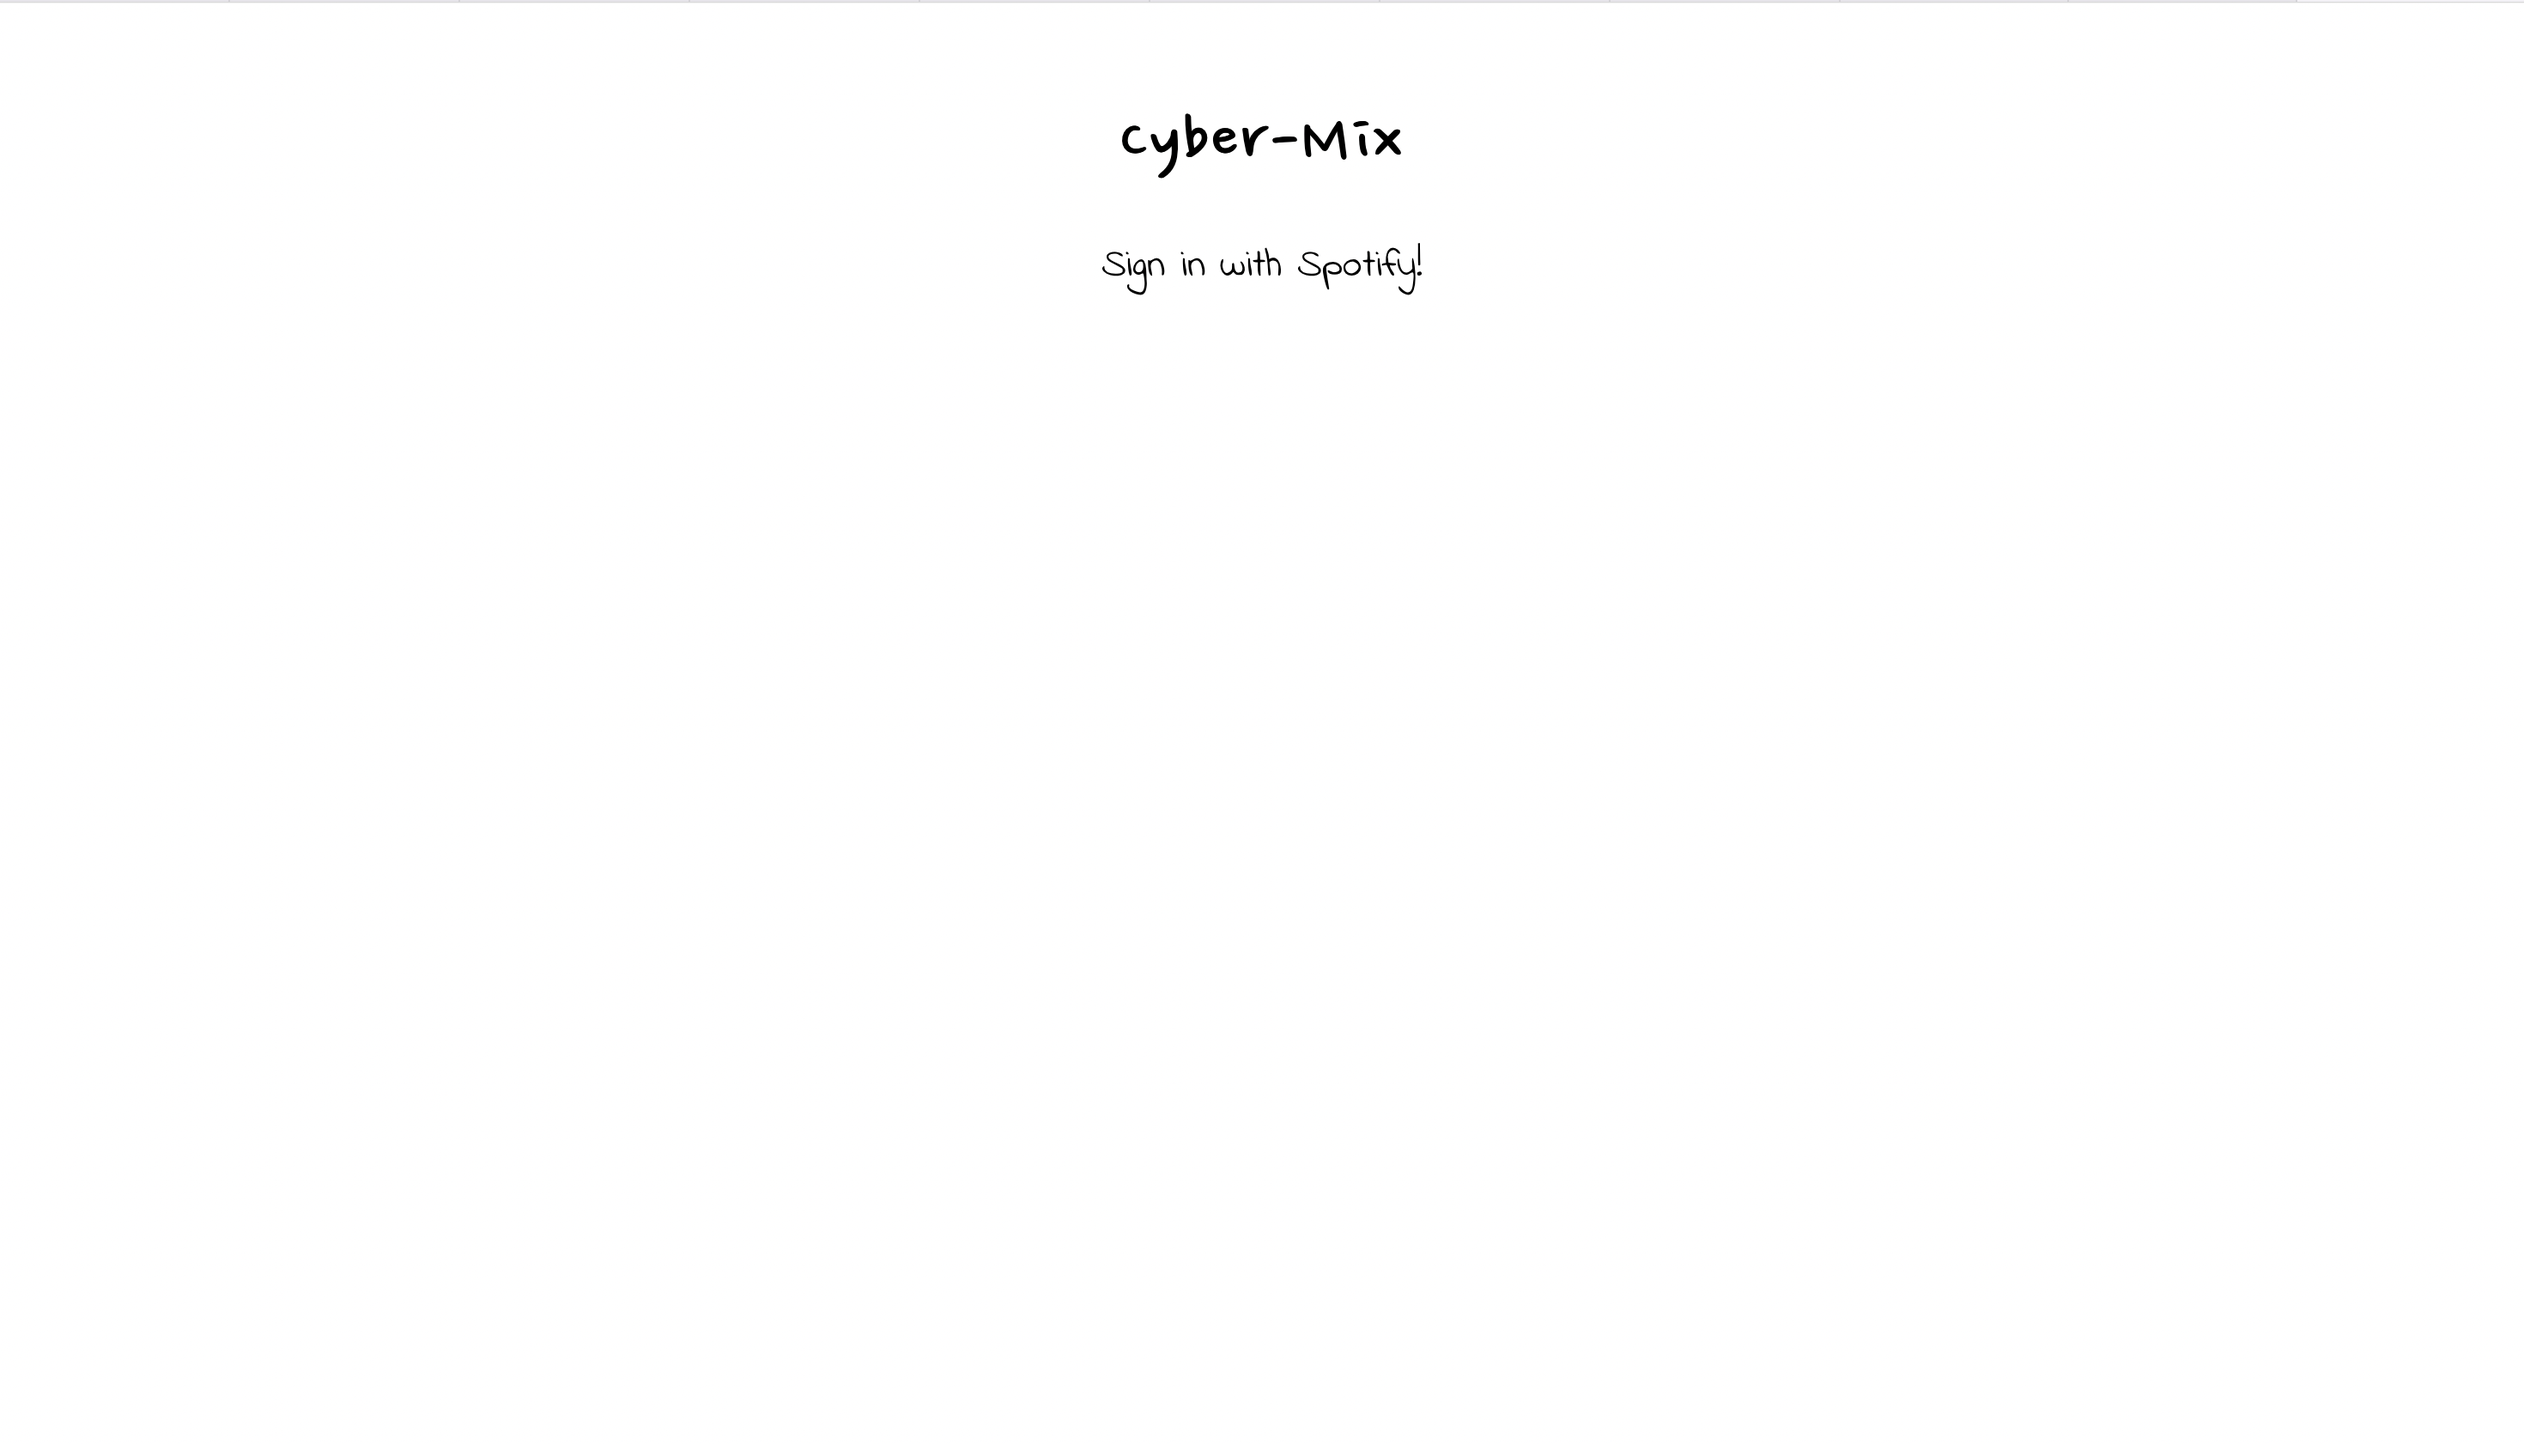
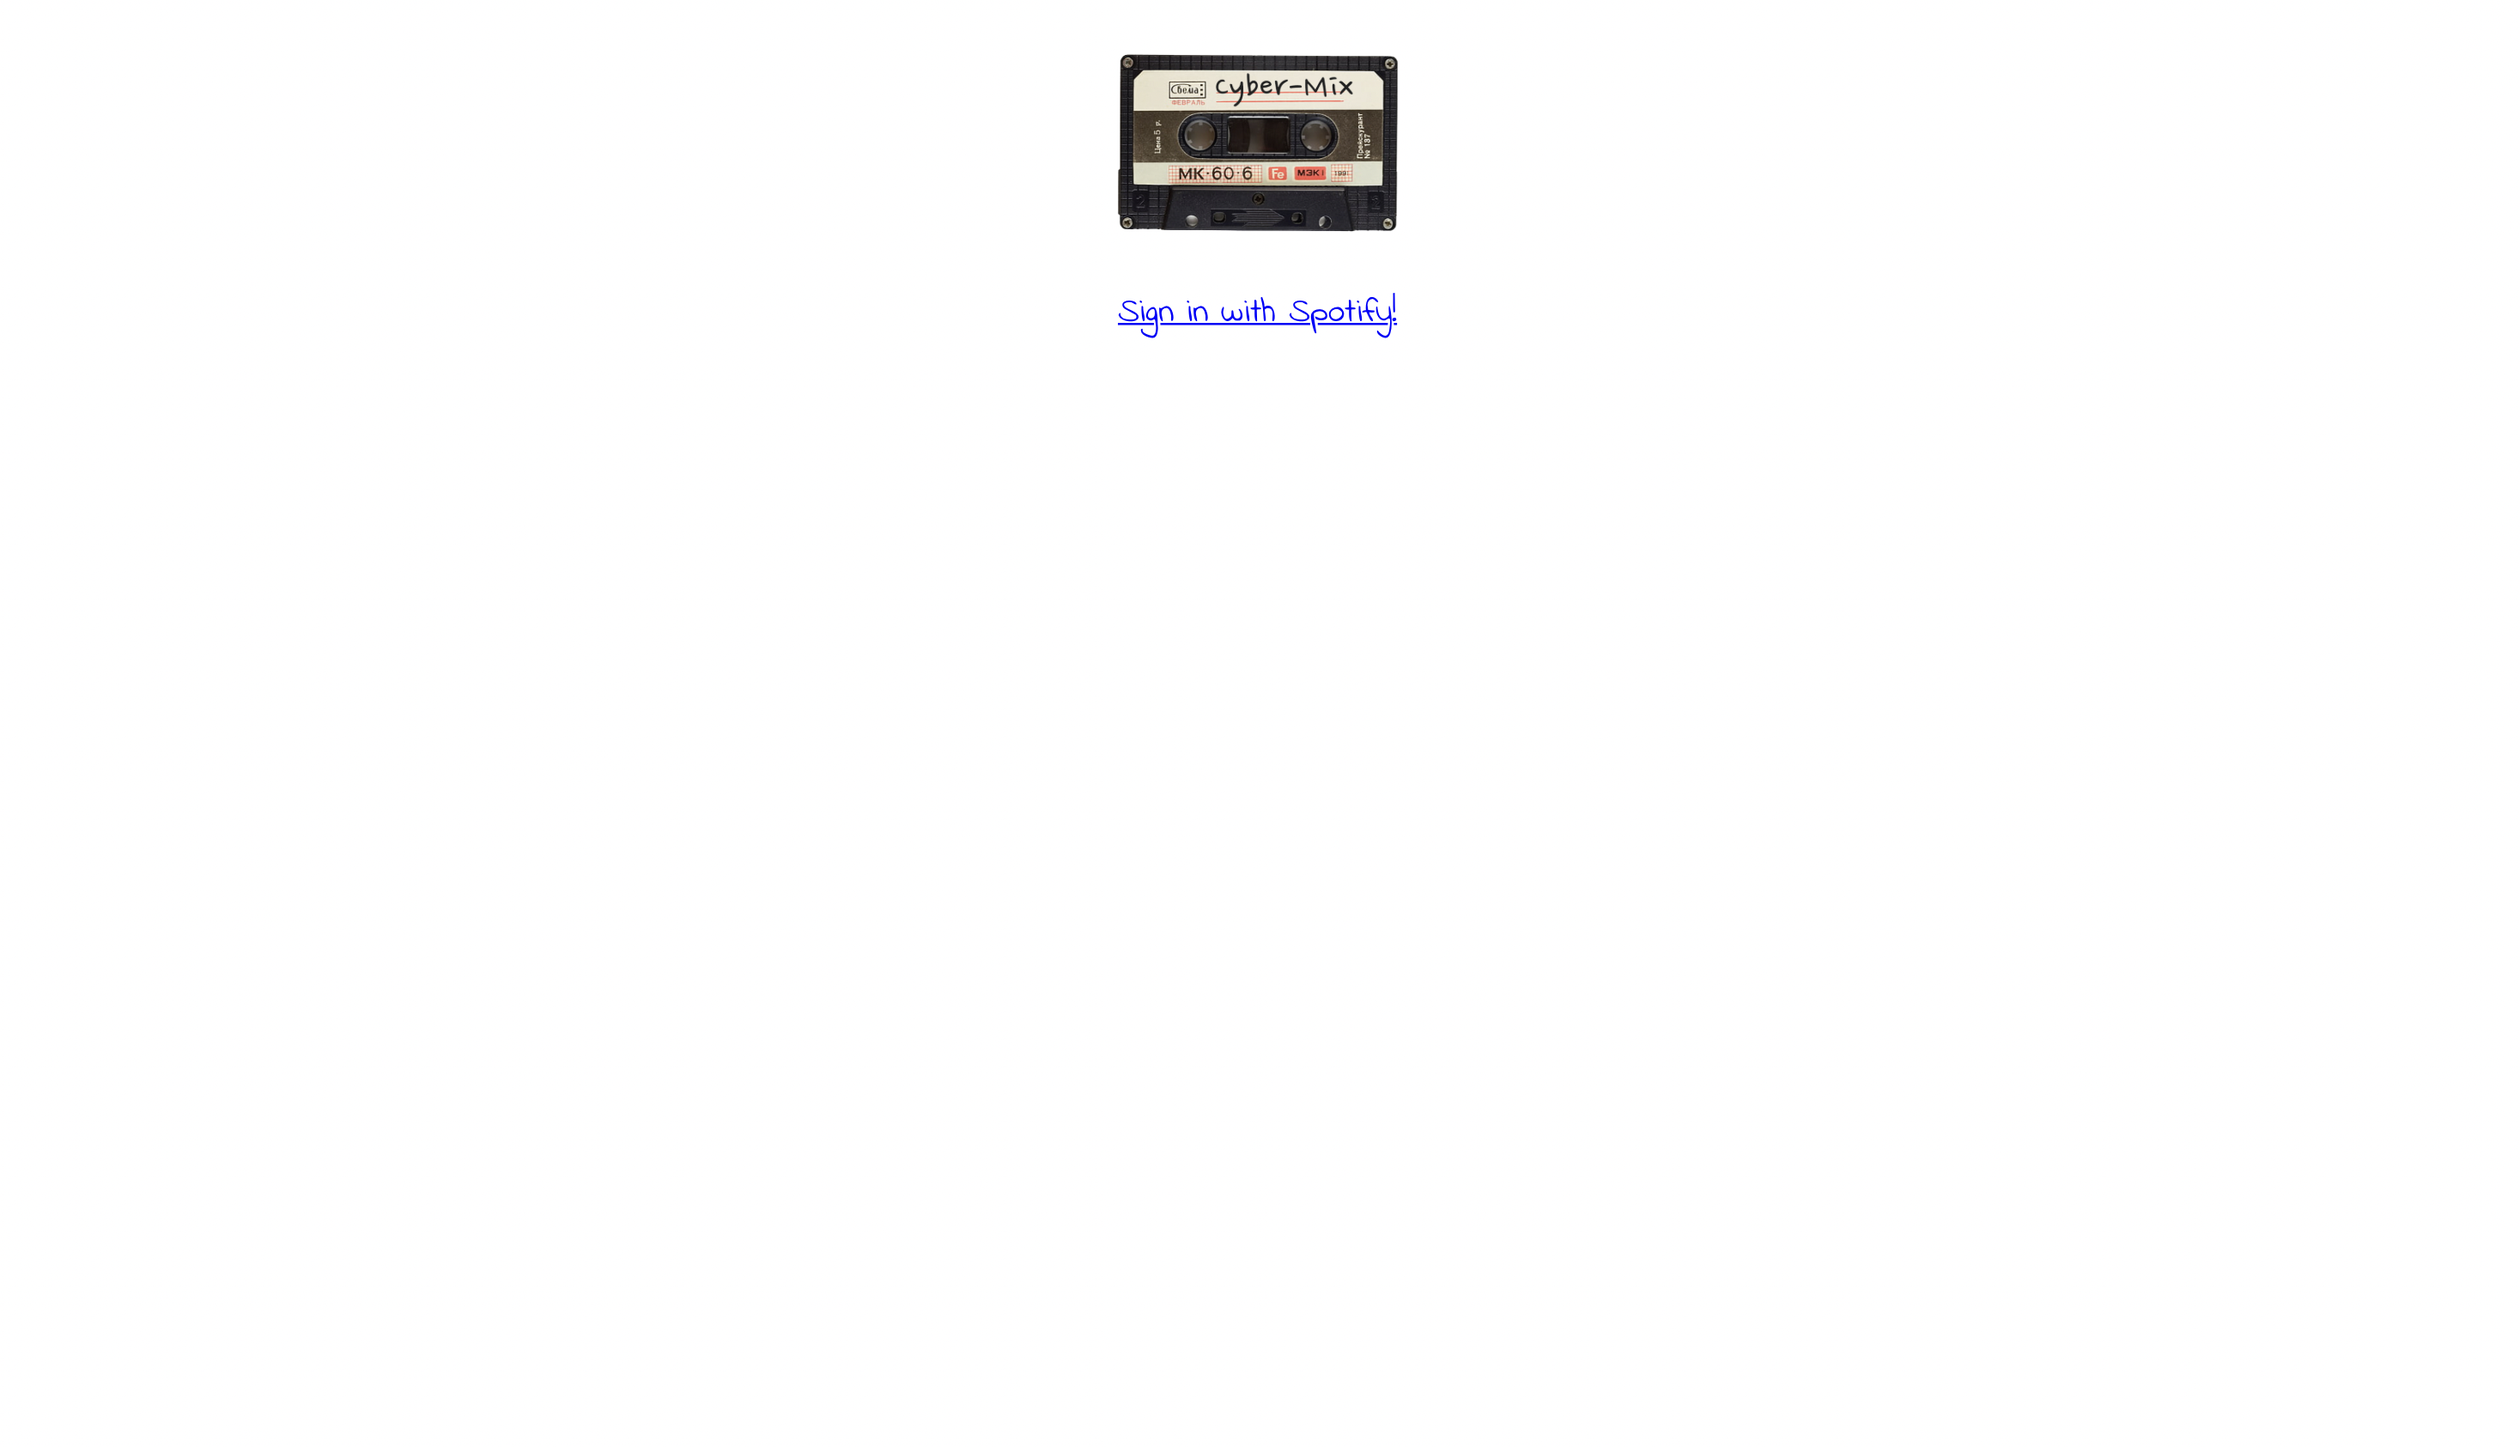
Playlist app link added

Changed region(s): [[0.4341, 0.0309, 0.5581, 0.2473]]

diff --git a/data/projects.tsx b/data/projects.tsx
@@ -192,9 +192,11 @@ export const projects: projectArrType = [
             "/images/cyber_mix/main/cybermix3.png", 
             "/images/cyber_mix/main/cybermix4.png", 
             "/images/cyber_mix/main/cybermix5.png", 
-            "/images/cyber_mix/main/cybermix6.png"
+            "/images/cyber_mix/main/cybermix6.png",
+            "/images/cyber_mix/main/cybermix7.png", 
+            "/images/cyber_mix/main/cybermix8.png"
         ],
-        link: "",
+        link: "https://playlistapp-nine.vercel.app",
         repo: "https://github.com/gregrutnam/playlistapp",
         todos: [
             "Store Spotify access token in local storage so user is not prompted to log in whenever the page refreshes or a component re-renders",

diff --git a/pages/_app.tsx b/pages/_app.tsx
@@ -39,7 +39,7 @@ export default function App({ Component, pageProps }: AppProps) {
             <div className="ticker">
               <div className="ticker__item">Junior full-stack developer based in London.
               </div>
-              <div className="ticker__item">Experienced with JavaScript, HTML, CSS, Node.js, React.js, Next.js, PostgreSQL and Express.
+              <div className="ticker__item">Experienced with JavaScript, HTML, TypeScript, CSS, Node.js, React.js, Next.js, PostgreSQL and Express.
               </div>
           </div>
         </div> : null}
